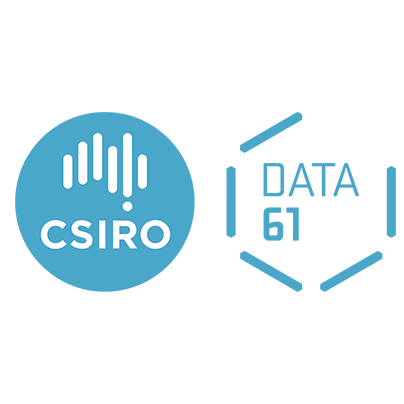
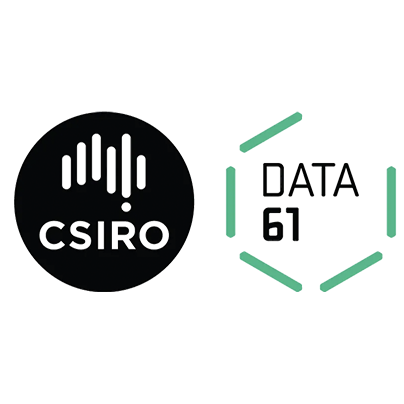
Dark theme fixes

diff --git a/assets/css/misc/dark.css b/assets/css/misc/dark.css
@@ -1,8 +1,9 @@
 .theme-dark:root {
     --primary-text-color: #e2e2e2;
+    --brand-color:#14b2fa ;
     --secondary-text-color: #868686;
     --white-color: #282c35;
-    --lighter-gray-color: rgb(17,17,17);
+    --lighter-gray-color: rgb(22,22,22); 
     --light-gray-color: #3b3e46;
     --mid-gray-color: #666;
     --dark-gray-color: #e6e6e6;
@@ -23,7 +24,10 @@
     background-color: rgba(0, 0, 0, 0.6);
 }
 .theme-dark .sheader {
-    background-color: rgba(0, 0, 0, 0.6);
+    background-color: rgba(17, 17, 17, 0.85);
+}
+.theme-dark .rheader {
+    background-color: rgba(17, 17, 17, 0.85);
 }
 
 .theme-dark .form-button,
@@ -43,8 +47,20 @@
     color: var(--twitter-color);
 }
 
+.theme-dark .logo-text {
+    background: #267cee;
+    background: -moz-linear-gradient(-455deg, #267cee 0%, #267cee 30%, #14b2fa 100%);
+    background: -webkit-gradient(left top, right bottom, color-stop(0%, #267cee), color-stop(0%, #267cee), color-stop(100%, #14b2fa));
+    background: -webkit-linear-gradient(-45deg, #267cee 0%, #267cee 30%, #14b2fa 100%);
+    background: -o-linear-gradient(135deg, #267cee 0%, #267cee 30%, #14b2fa 100%);
+    background: -ms-linear-gradient(135deg, #267cee 0%, #267cee 30%, #14b2fa 100%);
+    background: linear-gradient(135deg, #267cee 0%, #267cee 30%, #14b2fa 100%);
+
+}
+
 @media (prefers-color-scheme: dark) {
     html:not(.theme-light):root {
+        --brand-color:#14b2fa ;
         --primary-text-color: #e2e2e2;
         --secondary-text-color: #868686;
         --white-color: #282c35;
@@ -68,6 +84,23 @@
     html:not(.theme-light) .sticky {
         background-color: rgba(0, 0, 0, 0.6);
     }
+    html:not(.theme-light) .sheader {
+        background-color: rgba(17,17,17, 0.85);
+    }
+    html:not(.theme-light) .rheader {
+        background-color: rgba(17,17,17, 0.85);
+    }
+    
+    html:not(.theme-light) .logo-text {
+        background: #267cee;
+        background: -moz-linear-gradient(-455deg, #267cee 0%, #267cee 30%, #14b2fa 100%);
+        background: -webkit-gradient(left top, right bottom, color-stop(0%, #267cee), color-stop(0%, #267cee), color-stop(100%, #14b2fa));
+        background: -webkit-linear-gradient(-45deg, #267cee 0%, #267cee 30%, #14b2fa 100%);
+        background: -o-linear-gradient(135deg, #267cee 0%, #267cee 30%, #14b2fa 100%);
+        background: -ms-linear-gradient(135deg, #267cee 0%, #267cee 30%, #14b2fa 100%);
+        background: linear-gradient(135deg, #267cee 0%, #267cee 30%, #14b2fa 100%);
+    }
+
 
     html:not(.theme-light) .form-button,
     html:not(.theme-light) .pswp__counter {

diff --git a/assets/js/main.js b/assets/js/main.js
@@ -637,25 +637,44 @@ function theme() {
         html.removeClass(['theme-dark', 'theme-light']);
         localStorage.removeItem('dawn_theme');
         toggleText.text(toggle.attr('data-system'));
+        if (window.matchMedia) {
+            // Check if the dark-mode Media-Query matches
+            if(window.matchMedia('(prefers-color-scheme: dark)').matches){
+              // Dark
+              dark();
+            } else {
+              // Light
+              light();
+            }
+          } else {
+            // Default (when Media-Queries are not supported)
+            light();
+          }
     }
 
     function dark() {
         html.removeClass('theme-light').addClass('theme-dark');
         localStorage.setItem('dawn_theme', 'dark');
         toggleText.text(toggle.attr('data-dark'));
+        $("#0xAIT").attr("src","/assets/images/orgs/0xAIT_light.png");
+        $("#CSIRO").attr("src","/assets/images/orgs/csiro_light.png");
+        $("#YAALA").attr("src","/assets/images/orgs/yaalalabs_light.png");
     }
 
     function light() {
         html.removeClass('theme-dark').addClass('theme-light');
         localStorage.setItem('dawn_theme', 'light');
         toggleText.text(toggle.attr('data-light'));
+        $("#0xAIT").attr("src","/assets/images/orgs/0xAIT.png");
+        $("#CSIRO").attr("src","/assets/images/orgs/csiro.png");
+        $("#YAALA").attr("src","/assets/images/orgs/yaalalabs.png");
     }
 
     switch (localStorage.getItem('dawn_theme')) {
         case 'dark':
             dark();
             break;
-        case 'light':
+        case 'light':           
             light();
             break;
         default:

diff --git a/assets/css/general/basics.css b/assets/css/general/basics.css
@@ -1,5 +1,5 @@
 :root {
-    --brand-color: rgb(5,83,183);
+    --brand-color: #0147af;
     --primary-text-color: #333;
     --secondary-text-color: #999;
     --white-color: #fff;
